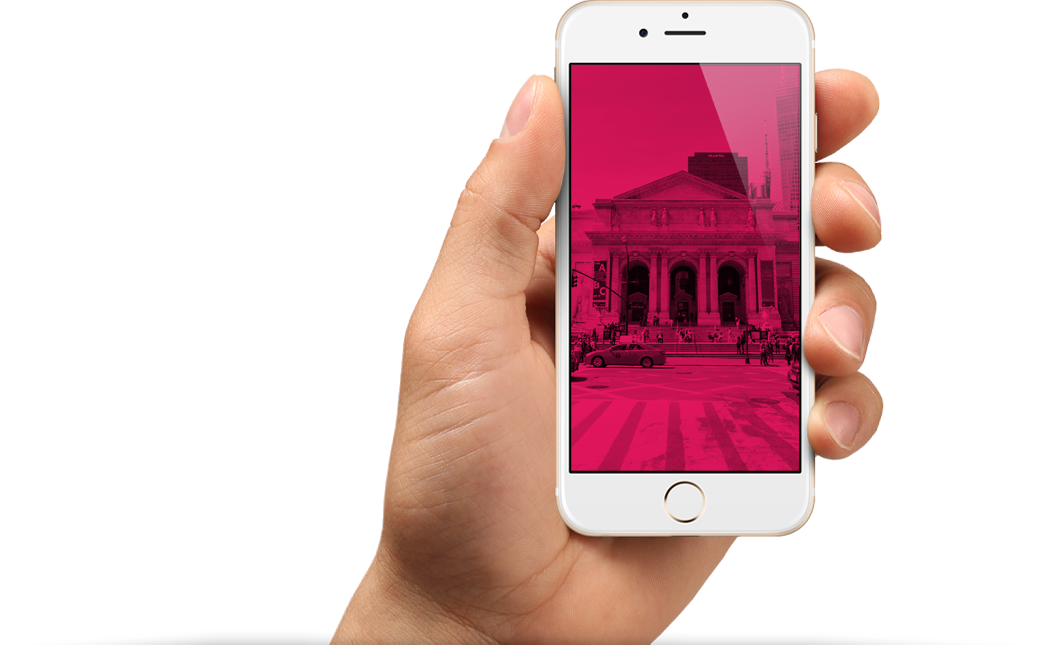
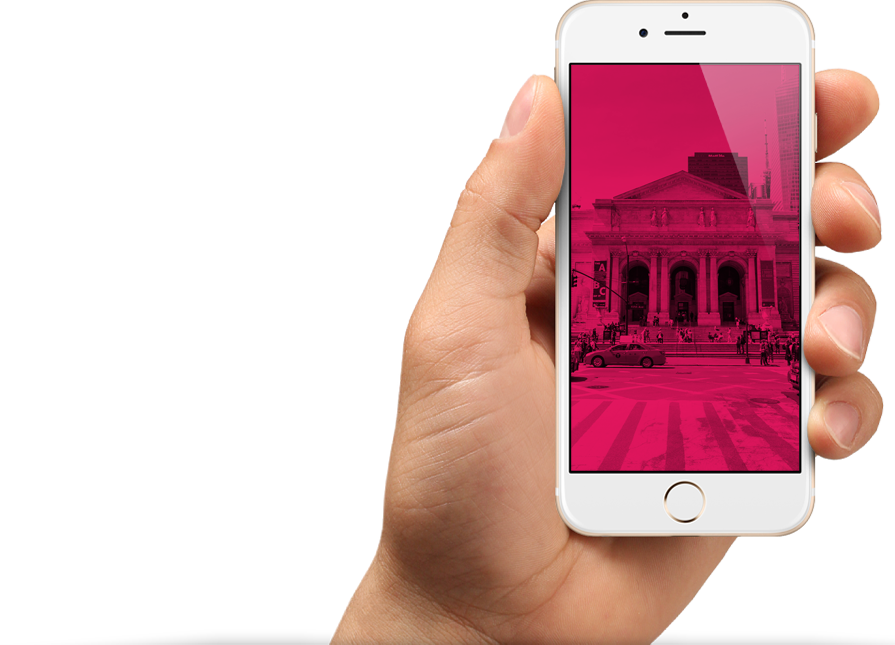
Исправления по базовым критериям + использование спрайта

diff --git a/source/photo.html b/source/photo.html
@@ -7,6 +7,9 @@
     <link href="css/style.min.css" rel="stylesheet">
   </head>
   <body>
+    <div style="display: none">
+      <svg xmlns="http://www.w3.org/2000/svg" xmlns:xlink="http://www.w3.org/1999/xlink"><symbol id="icon-editor-contrast" viewBox="-35.422 -7.96 31.92 31.92"><path d="M-19.462-3.96c6.595 0 11.96 5.365 11.96 11.96s-5.365 11.96-11.96 11.96-11.96-5.365-11.96-11.96 5.365-11.96 11.96-11.96m0-4c-8.814 0-15.96 7.145-15.96 15.96 0 8.813 7.146 15.96 15.96 15.96S-3.502 16.813-3.502 8c0-8.815-7.146-15.96-15.96-15.96z"/><path d="M-19.462 16.331a8.519 8.519 0 008.52-8.52 8.518 8.518 0 00-8.52-8.519"/></symbol><symbol id="icon-editor-crop"><path fill="none" d="M0 0h48v48H0V0z"/><path d="M34 30h4V14c0-2.21-1.79-4-4-4H18v4h16v16zm-20 4V2h-4v8H2v4h8v20c0 2.21 1.79 4 4 4h20v8h4v-8h8v-4H14z"/></symbol><symbol id="icon-editor-diagram-fill" viewBox="22.5 69.048 253 253"><path fill="#231F20" d="M149 69.048c-69.864 0-126.5 56.636-126.5 126.5s56.636 126.5 126.5 126.5 126.5-56.636 126.5-126.5c0-69.863-56.636-126.5-126.5-126.5zm0 237.216c-60.844 0-110.167-49.323-110.167-110.167S88.156 85.93 149 85.93c60.843 0 110.167 49.323 110.167 110.167S209.843 306.264 149 306.264z"/></symbol><symbol id="icon-editor-fill"><path fill="none" d="M0 0h48v48H0V0z"/><path d="M33.12 17.88L15.24 0l-2.83 2.83 4.76 4.76L6.88 17.88a3 3 0 000 4.24l11 11c.58.59 1.35.88 2.12.88s1.54-.29 2.12-.88l11-11a3 3 0 000-4.24zM10.41 20L20 10.42 29.59 20H10.41zM38 23s-4 4.33-4 7c0 2.21 1.79 4 4 4s4-1.79 4-4c0-2.67-4-7-4-7zM0 40h48v3H0z"/></symbol><symbol id="icon-facebook"><path d="M6.275 3.357h2.398V0H5.795C2.656.181 1.54 2.387 1.948 6.115H0v3.517h1.958v9.312h3.837V9.632h2.857V6.115H5.786c-.021-1.045-.036-2.406.489-2.758z"/></symbol><symbol id="icon-heart" viewBox="521.939 473.064 12.545 11.99"><path fill="#d22856" d="M528.174 485.055a.737.737 0 01-.552-.249c-3.798-4.324-4.644-5.298-4.858-5.572h-.004a3.866 3.866 0 01-.821-2.373 3.803 3.803 0 013.799-3.799c.934 0 1.804.32 2.484.898a3.847 3.847 0 012.463-.898 3.803 3.803 0 013.799 3.799c0 .909-.318 1.754-.896 2.381l-4.86 5.561a.735.735 0 01-.554.252zm-4.245-6.706c.208.255 2.471 2.839 4.243 4.858l4.323-4.944c.34-.369.52-.86.52-1.399a2.333 2.333 0 00-2.33-2.331c-.729 0-1.421.344-1.9.943a.76.76 0 01-.585.275.727.727 0 01-.575-.294 2.333 2.333 0 00-1.887-.925 2.333 2.333 0 00-2.33 2.331c0 .678.275 1.171.507 1.467l.014.019z"/></symbol><symbol id="icon-mail"><path fill="#d22856" d="M14.914 1.814C16.111.816 15.816 0 14.257 0H3.731c-1.56 0-1.854.816-.657 1.814l3.742 3.118c1.197.998 3.158.998 4.355 0l3.743-3.118z"/><path fill="#d22856" d="M11.913 7.044A209.809 209.809 0 019.695 8.88l-.02.013a1.048 1.048 0 01-.235.136c-.033.015-.066.034-.1.048a1.18 1.18 0 01-.335.059l-.01.001h-.002l-.01-.001a1.216 1.216 0 01-.335-.059c-.034-.014-.068-.033-.1-.048a1.07 1.07 0 01-.235-.136l-.02-.013c-.022-.012-1.02-.838-2.218-1.836L2.178 3.796C.979 2.798 0 3.257 0 4.816v6.315a2.842 2.842 0 002.835 2.835h12.318a2.842 2.842 0 002.835-2.835V4.816c0-1.559-.979-2.018-2.178-1.02l-3.897 3.248z"/></symbol><symbol id="icon-map-marker"><circle fill="#FFF" cx="17.991" cy="17.991" r="17.991"/><circle fill="#D22856" cx="17.991" cy="17.991" r="7.866"/></symbol><symbol id="icon-menu-burger"><path fill="#FFF" d="M1.137 0C.51 0 0 .428 0 1.01v1.981c0 .558.494 1.01 1.139 1.01H48.81c.628 0 1.138-.428 1.138-1.01V1.01c0-.558-.494-1.01-1.138-1.01H1.137zm0 10.003c-.627 0-1.137.428-1.137 1.01v1.98c0 .557.494 1.01 1.139 1.01H48.81c.628 0 1.138-.428 1.138-1.01v-1.98c0-.558-.494-1.01-1.138-1.01H1.137zm0 10.002C.51 20.005 0 20.434 0 21.016v1.981c0 .557.494 1.01 1.139 1.01H48.81c.628 0 1.138-.428 1.138-1.01v-1.981c0-.558-.494-1.011-1.138-1.011H1.137z"/><path fill="#FFF" d="M1.137 0C.51 0 0 .428 0 1.01v1.981c0 .558.494 1.01 1.139 1.01H48.81c.628 0 1.138-.428 1.138-1.01V1.01c0-.558-.494-1.01-1.138-1.01H1.137zm0 10.003c-.627 0-1.137.428-1.137 1.01v1.98c0 .557.494 1.01 1.139 1.01H48.81c.628 0 1.138-.428 1.138-1.01v-1.98c0-.558-.494-1.01-1.138-1.01H1.137zm0 10.002C.51 20.005 0 20.434 0 21.016v1.981c0 .557.494 1.01 1.139 1.01H48.81c.628 0 1.138-.428 1.138-1.01v-1.981c0-.558-.494-1.011-1.138-1.011H1.137z"/></symbol><symbol id="icon-menu-cross"><path fill="#FFF" d="M15.087 11.933l8.56-8.559a.75.75 0 000-1.061L21.554.22a.747.747 0 00-1.06 0l-8.561 8.56L3.373.22a.771.771 0 00-1.061 0L.22 2.313a.75.75 0 000 1.061l8.56 8.559-8.56 8.559a.751.751 0 000 1.062l2.093 2.094a.744.744 0 001.06 0l8.561-8.56 8.56 8.56a.746.746 0 001.06 0l2.093-2.094a.751.751 0 000-1.062l-8.56-8.559z"/></symbol><symbol id="icon-no"><path d="M15.497 13.376L26.312 2.562A1.5 1.5 0 1024.191.441L13.376 11.255 2.562.439A1.5 1.5 0 10.441 2.56l10.814 10.815L.439 24.19a1.5 1.5 0 102.122 2.121l10.815-10.814L24.19 26.312c.293.293.677.439 1.061.439s.768-.146 1.061-.439a1.5 1.5 0 000-2.121L15.497 13.376z" fill="#f25b26"/></symbol><symbol id="icon-phone"><path fill="#d22856" d="M9.848 0C6.34 0 2.823.628 1.546 1.878.488 2.918.134 4.752.016 5.913c0 0-.016.115-.016.165 0 .454.369.82.819.82.054 0 2.028-.161 3.218-.259a.503.503 0 00.086-.017.821.821 0 00.801-.819l.003-1.617c0-.5.407-.902.907-.902h8.027c.499 0 .907.402.907.902l.003 1.617a.82.82 0 00.802.82.474.474 0 00.085.017c1.19.098 3.164.259 3.217.259a.822.822 0 00.822-.82c0-.05-.018-.165-.018-.165-.118-1.161-.472-2.995-1.53-4.035C16.873.628 13.356 0 9.848 0zm0 10.67a1.64 1.64 0 100 3.281 1.64 1.64 0 100-3.281zM8.616 6.975V5.951a1.024 1.024 0 10-2.049 0v1.024L1.03 12.888a2.054 2.054 0 00-.619 1.47v1.646c0 .907.734 1.643 1.641 1.643h.411v1.023a1.026 1.026 0 102.05 0v-1.023h10.669v1.023a1.025 1.025 0 102.051 0v-1.023h.411c.905 0 1.64-.735 1.64-1.643v-1.646c0-.576-.236-1.094-.618-1.47L13.13 6.975V5.951a1.025 1.025 0 10-2.051 0v1.024H8.616zm1.232 2.053c1.814 0 3.282 1.468 3.282 3.282s-1.468 3.282-3.282 3.282c-1.813 0-3.281-1.468-3.281-3.282s1.467-3.282 3.281-3.282z"/></symbol><symbol id="icon-quotes"><path fill="#efefef" d="M34.967 7.063L30.713 0C28.272 1.495 0 12.207 0 39.617c0 7.231.336 24.172 18.9 24.172 11.187 0 13.94-10.279 13.94-13.584 0-21.977-21.382-14.177-21.382-14.177 0-18.071 19.805-26.844 23.509-28.965zm43.705 0L74.418 0c-2.44 1.495-30.713 12.207-30.713 39.617 0 7.231.337 24.172 18.9 24.172 11.187 0 13.939-10.279 13.939-13.584 0-21.977-21.381-14.177-21.381-14.177.002-18.071 19.806-26.844 23.509-28.965z"/></symbol><symbol id="icon-review-arrow-left"><path d="M2.045 20.859L21.458 1.446A.847.847 0 0020.261.248L.248 20.261a.846.846 0 000 1.197l20.013 20.013a.843.843 0 001.198 0 .847.847 0 000-1.198L2.045 20.859z"/></symbol><symbol id="icon-review-arrow-right"><path d="M19.661 20.859L.248 1.446A.847.847 0 011.445.248L21.458 20.26c.33.33.33.867 0 1.197L1.445 41.471a.843.843 0 01-1.198 0 .847.847 0 010-1.198l19.414-19.414z"/></symbol><symbol id="icon-timer"><path fill="#dedede" d="M264.568 102.055l5.355-5.355c7.717-7.717 9.124-18.938 3.126-24.935-5.997-5.997-17.217-4.59-24.934 3.127l-5.386 5.385C221.768 63.292 196.11 51.875 168 48.297v-9.583h7.658c10.914 0 19.843-8.711 19.843-19.357S186.573 0 175.659 0h-53.317C111.429 0 102.5 8.711 102.5 19.357s8.929 19.357 19.842 19.357H130v9.583C56.681 57.629 0 120.244 0 196.097c0 82.291 66.709 149 149 149 82.29 0 149-66.709 149-149 0-35.663-12.535-68.394-33.432-94.042zM149 306.264c-60.844 0-110.167-49.323-110.167-110.167S88.156 85.93 149 85.93c60.843 0 110.167 49.323 110.167 110.167S209.843 306.264 149 306.264z"/></symbol><symbol id="icon-twitter"><path fill-rule="evenodd" clip-rule="evenodd" d="M11.283.153c1.736-.485 3.074.263 3.685 1.151.694-.226 1.372-.47 2.072-.691-.004.841-.538 1.478-.883 1.727.704.166 1.343-.48 1.343-.48-.175.976-1.035 1.746-1.611 1.977-.239 6.592-3.272 10.956-10.382 10.823h-.46c-.422 0-4.29-.45-5.047-1.843 2.341.192 4.011-.412 4.835-1.15-.989-.293-2.761-.464-3.07-2.881.362.105.583.223 1.228.117C1.757 8.067.385 7.366.461 5.218c.294.32 1.1.523 1.381.461C1.117 5.444-.188 2.398.921.843 2.794 2.654 4.769 4.364 8.29 4.528 8.506 2.288 9.461.787 11.283.153z"/></symbol><symbol id="icon-yes" viewBox="-82.357 4.875 21.698 16.09"><path d="M-60.953 5.167a.999.999 0 00-1.414 0L-75.75 18.551l-4.9-4.9a.999.999 0 10-1.414 1.414l5.607 5.607a.997.997 0 001.414 0l14.09-14c.391-.481.391-1.114 0-1.505z" fill="#3dc644"/></symbol><symbol id="icon-youtube"><path d="M1.775 13.78C.799 14.257 0 13.758 0 12.671V1.29C0 .202.799-.295 1.775.181l12.133 5.932c.975.478.975 1.258 0 1.736L1.775 13.78z"/></symbol></svg>
+    </div>
     <header class="page-header">
       <div class="page-header__wrapper">
         <div class="page-header__top container">
@@ -227,29 +230,21 @@
               <p class="posting-form__indicator">
                 <label class="posting-form__label posting-form__label--sharp posting-form__label--active" for="sharp">
                   <span class="visually-hidden">Резкость</span>
-                  <svg class="posting-form__label-svg posting-form__label-svg--active" x="0px" y="0px" width="48px" height="48px" viewBox="0 0 48 48" enable-background="new 0 0 48 48" xml:space="preserve">
-                    <path d="M34,30h4V14c0-2.21-1.79-4-4-4H18v4h16V30z M14,34V2h-4v8H2v4h8v20c0,2.21,1.79,4,4,4h20v8h4v-8h8v-4H14z"/>
-                  </svg>
+                  <svg class="posting-form__label-svg posting-form__label-svg--active" width="48px" height="48px" viewBox="0 0 48 48"><use xlink:href="#icon-editor-crop"></use></svg>
                 </label>
                 <input class="posting-form__range-input posting-form__range-input--active" type="range" min="0" max="100" name="sharp" id="sharp">
               </p>
               <p class="posting-form__indicator">
                 <label class="posting-form__label posting-form__label--saturation" for="saturation">
                   <span class="visually-hidden">Насыщенность</span>
-                  <svg class="posting-form__label-svg" x="0px" y="0px" width="48px" height="48px" viewBox="0 0 48 48" enable-background="new 0 0 48 48" xml:space="preserve">
-                    <path d="M33.12,17.88L15.24,0l-2.83,2.83l4.76,4.76L6.88,17.88c-1.17,1.17-1.17,3.07,0,4.24l11,11C18.46,33.71,19.23,34,20,34 s1.54-0.29,2.12-0.88l11-11C34.29,20.95,34.29,19.05,33.12,17.88z M10.41,20L20,10.42L29.59,20H10.41z M38,23c0,0-4,4.33-4,7 c0,2.21,1.79,4,4,4s4-1.79,4-4C42,27.33,38,23,38,23z"/>
-                    <rect y="40" width="48" height="3"/>
-                  </svg>
+                  <svg class="posting-form__label-svg" width="48px" height="48px" viewBox="0 0 48 48"><use xlink:href="#icon-editor-fill"></use></svg>
                 </label>
                 <input class="posting-form__range-input" type="range" min="0" max="100" name="saturation" id="saturation">
               </p>
               <p class="posting-form__indicator">
                 <label class="posting-form__label posting-form__label--contrast" for="contrast">
                   <span class="visually-hidden">Контраст</span>
-                  <svg class="posting-form__label-svg" x="0px" y="0px" width="31.92px" height="31.92px" viewBox="-35.422 -7.96 31.92 31.92" enable-background="new -35.422 -7.96 31.92 31.92" xml:space="preserve">
-                    <path fill="#231F20" d="M-19.462-3.96c6.595,0,11.96,5.365,11.96,11.96s-5.365,11.96-11.96,11.96S-31.422,14.595-31.422,8 S-26.057-3.96-19.462-3.96 M-19.462-7.96c-8.814,0-15.96,7.145-15.96,15.96c0,8.813,7.146,15.96,15.96,15.96S-3.502,16.813-3.502,8 C-3.502-0.815-10.648-7.96-19.462-7.96L-19.462-7.96z"/>
-                    <path d="M-19.462,16.331c4.706,0,8.52-3.813,8.52-8.52c0-4.705-3.813-8.519-8.52-8.519"/>
-                  </svg>
+                  <svg class="posting-form__label-svg" width="32" height="32"><use xlink:href="#icon-editor-contrast"></use></svg>
                 </label>
                 <input class="posting-form__range-input" type="range" min="0" max="100" name="contrast" id="contrast">
               </p>
@@ -262,7 +257,7 @@
         </form>
       </section>
     </main>
-    <footer class="page-footer">
+    <footer class="page-footer page-footer--mobile-hidden">
       <div class="page-footer__wrapper container">
         <a href="index.html" class="page-footer__logo">
           <svg class="page-footer__logo-svg" version="1.1" xmlns="http://www.w3.org/2000/svg" xmlns:xlink="http://www.w3.org/1999/xlink" x="0px" y="0px" width="146.3px" height="40.375px" viewBox="0 0 146.3 40.375" enable-background="new 0 0 146.3 40.375" xml:space="preserve">
@@ -303,36 +298,26 @@
           <li class="social-list__item">
             <a class="social-list__link social-list__link--twitter" href="#">
               <span class="visually-hidden">Мы в Твиттере</span>
-              <svg version="1.0" xmlns="http://www.w3.org/2000/svg" xmlns:xlink="http://www.w3.org/1999/xlink" x="0px" y="0px" width="17.5px" height="14.663px" viewBox="0 0 17.5 14.663" enable-background="new 0 0 17.5 14.663" xml:space="preserve">
-                <g id="W6EeEF_1_">
-                  <g>
-                    <path fill-rule="evenodd" clip-rule="evenodd" d="M11.283,0.153c1.736-0.485,3.074,0.263,3.685,1.151 c0.694-0.226,1.372-0.47,2.072-0.691c-0.004,0.841-0.538,1.478-0.883,1.727C16.861,2.506,17.5,1.86,17.5,1.86 c-0.175,0.976-1.035,1.746-1.611,1.977C15.65,10.429,12.617,14.793,5.507,14.66c-0.538,0,0.077,0-0.46,0 c-0.422,0-4.29-0.45-5.047-1.843c2.341,0.192,4.011-0.412,4.835-1.15c-0.989-0.293-2.761-0.464-3.07-2.881 c0.362,0.105,0.583,0.223,1.228,0.117C1.757,8.067,0.385,7.366,0.461,5.218c0.294,0.32,1.1,0.523,1.381,0.461 c-0.725-0.235-2.03-3.281-0.921-4.836C2.794,2.654,4.769,4.364,8.29,4.528C8.506,2.288,9.461,0.787,11.283,0.153z"/>
-                  </g>
-                </g>
-              </svg>
+              <svg width="18" height="14"><use xlink:href="#icon-twitter"></use></svg>
             </a>
           </li>
           <li class="social-list__item">
             <a class="social-list__link social-list__link--facebook" href="#">
               <span class="visually-hidden">Мы в Фейсбуке</span>
-              <svg version="1.0" xmlns="http://www.w3.org/2000/svg" xmlns:xlink="http://www.w3.org/1999/xlink" x="0px" y="0px" width="8.673px" height="18.944px" viewBox="0 0 8.673 18.944" enable-background="new 0 0 8.673 18.944" xml:space="preserve">
-                <path d="M6.275,3.357c0.799,0,1.599,0,2.398,0c0-1.119,0-2.238,0-3.357c-0.959,0-1.92,0-2.878,0C2.656,0.181,1.54,2.387,1.948,6.115 H0v3.517h1.958c0,3.104,0,6.208,0,9.312c1.279,0,2.558,0,3.837,0c0-3.104,0-6.208,0-9.312h2.857V6.115H5.786 C5.765,5.07,5.75,3.709,6.275,3.357z"/>
-              </svg>
+              <svg width="9" height="18"><use xlink:href="#icon-facebook"></use></svg>
             </a>
           </li>
           <li class="social-list__item">
             <a class="social-list__link social-list__link--youtube" href="#">
               <span class="visually-hidden">Мы на Ютубе</span>
-              <svg version="1.0" xmlns="http://www.w3.org/2000/svg" xmlns:xlink="http://www.w3.org/1999/xlink" x="0px" y="0px" width="14.64px" height="13.96px" viewBox="0 0 14.64 13.96" enable-background="new 0 0 14.64 13.96" xml:space="preserve">
-                <path d="M1.775,13.78C0.799,14.257,0,13.758,0,12.671V1.29c0-1.088,0.799-1.585,1.775-1.109l12.133,5.932 c0.975,0.478,0.975,1.258,0,1.736L1.775,13.78z"/>
-              </svg>
+              <svg width="15" height="13"><use xlink:href="#icon-youtube"></use></svg>
             </a>
           </li>
         </ul>
         <p class="page-footer__copyright">
           Разработано
           <a class="page-footer__copyright-link" href="https://htmlacademy.ru/intensive/adaptive">
-            <span class="visually-hidden"> HTML Academy</span>
+            <span class="visually-hidden">HTML Academy</span>
             <svg class="page-footer__copyright-link-svg" xmlns="http://www.w3.org/2000/svg" viewBox="0 0 60 60" width="27" height="34">
               <path fill="#d22856" d="M30.2 5h-.2l-19.7 2.1v36.2l19.7 11.7 19.7-11.7v-36.2l-19.5-2.1zm17 36.8l-17.2 10.2-17.2-10.2v-14.8l17.1 10.2v1.8l-11.7-7v1.8l11.8 7.1v1.9l-11.8-7v1.8l11.8 7 11.9-7.1v-7.6l5.3-3.2v15.1zm-.1-17l-4.7 2.8-2.2 1.3-10.3-6.1v1.8l8.8 5.3h-.1l-.2.1-1.3.7-7.3-4.3v1.8l5.8 3.4-1.4.9-4.3-2.6v1.8l2.9 1.7-2.9 1.7-17-10.1 17-10.2 17.2 10zm.1-1.8l-17.3-10.2-17.1 10.2v-13.6l17.2-1.8 17.2 1.8v13.6z"/>
             </svg>

diff --git a/source/index.html b/source/index.html
@@ -7,6 +7,9 @@
     <link href="css/style.min.css" rel="stylesheet">
   </head>
   <body>
+    <div style="display: none">
+      <svg xmlns="http://www.w3.org/2000/svg" xmlns:xlink="http://www.w3.org/1999/xlink"><symbol id="icon-editor-contrast" viewBox="-35.422 -7.96 31.92 31.92"><path d="M-19.462-3.96c6.595 0 11.96 5.365 11.96 11.96s-5.365 11.96-11.96 11.96-11.96-5.365-11.96-11.96 5.365-11.96 11.96-11.96m0-4c-8.814 0-15.96 7.145-15.96 15.96 0 8.813 7.146 15.96 15.96 15.96S-3.502 16.813-3.502 8c0-8.815-7.146-15.96-15.96-15.96z"/><path d="M-19.462 16.331a8.519 8.519 0 008.52-8.52 8.518 8.518 0 00-8.52-8.519"/></symbol><symbol id="icon-editor-crop"><path fill="none" d="M0 0h48v48H0V0z"/><path d="M34 30h4V14c0-2.21-1.79-4-4-4H18v4h16v16zm-20 4V2h-4v8H2v4h8v20c0 2.21 1.79 4 4 4h20v8h4v-8h8v-4H14z"/></symbol><symbol id="icon-editor-diagram-fill" viewBox="22.5 69.048 253 253"><path fill="#231F20" d="M149 69.048c-69.864 0-126.5 56.636-126.5 126.5s56.636 126.5 126.5 126.5 126.5-56.636 126.5-126.5c0-69.863-56.636-126.5-126.5-126.5zm0 237.216c-60.844 0-110.167-49.323-110.167-110.167S88.156 85.93 149 85.93c60.843 0 110.167 49.323 110.167 110.167S209.843 306.264 149 306.264z"/></symbol><symbol id="icon-editor-fill"><path fill="none" d="M0 0h48v48H0V0z"/><path d="M33.12 17.88L15.24 0l-2.83 2.83 4.76 4.76L6.88 17.88a3 3 0 000 4.24l11 11c.58.59 1.35.88 2.12.88s1.54-.29 2.12-.88l11-11a3 3 0 000-4.24zM10.41 20L20 10.42 29.59 20H10.41zM38 23s-4 4.33-4 7c0 2.21 1.79 4 4 4s4-1.79 4-4c0-2.67-4-7-4-7zM0 40h48v3H0z"/></symbol><symbol id="icon-facebook"><path d="M6.275 3.357h2.398V0H5.795C2.656.181 1.54 2.387 1.948 6.115H0v3.517h1.958v9.312h3.837V9.632h2.857V6.115H5.786c-.021-1.045-.036-2.406.489-2.758z"/></symbol><symbol id="icon-heart" viewBox="521.939 473.064 12.545 11.99"><path fill="#d22856" d="M528.174 485.055a.737.737 0 01-.552-.249c-3.798-4.324-4.644-5.298-4.858-5.572h-.004a3.866 3.866 0 01-.821-2.373 3.803 3.803 0 013.799-3.799c.934 0 1.804.32 2.484.898a3.847 3.847 0 012.463-.898 3.803 3.803 0 013.799 3.799c0 .909-.318 1.754-.896 2.381l-4.86 5.561a.735.735 0 01-.554.252zm-4.245-6.706c.208.255 2.471 2.839 4.243 4.858l4.323-4.944c.34-.369.52-.86.52-1.399a2.333 2.333 0 00-2.33-2.331c-.729 0-1.421.344-1.9.943a.76.76 0 01-.585.275.727.727 0 01-.575-.294 2.333 2.333 0 00-1.887-.925 2.333 2.333 0 00-2.33 2.331c0 .678.275 1.171.507 1.467l.014.019z"/></symbol><symbol id="icon-mail"><path fill="#d22856" d="M14.914 1.814C16.111.816 15.816 0 14.257 0H3.731c-1.56 0-1.854.816-.657 1.814l3.742 3.118c1.197.998 3.158.998 4.355 0l3.743-3.118z"/><path fill="#d22856" d="M11.913 7.044A209.809 209.809 0 019.695 8.88l-.02.013a1.048 1.048 0 01-.235.136c-.033.015-.066.034-.1.048a1.18 1.18 0 01-.335.059l-.01.001h-.002l-.01-.001a1.216 1.216 0 01-.335-.059c-.034-.014-.068-.033-.1-.048a1.07 1.07 0 01-.235-.136l-.02-.013c-.022-.012-1.02-.838-2.218-1.836L2.178 3.796C.979 2.798 0 3.257 0 4.816v6.315a2.842 2.842 0 002.835 2.835h12.318a2.842 2.842 0 002.835-2.835V4.816c0-1.559-.979-2.018-2.178-1.02l-3.897 3.248z"/></symbol><symbol id="icon-map-marker"><circle fill="#FFF" cx="17.991" cy="17.991" r="17.991"/><circle fill="#D22856" cx="17.991" cy="17.991" r="7.866"/></symbol><symbol id="icon-menu-burger"><path fill="#FFF" d="M1.137 0C.51 0 0 .428 0 1.01v1.981c0 .558.494 1.01 1.139 1.01H48.81c.628 0 1.138-.428 1.138-1.01V1.01c0-.558-.494-1.01-1.138-1.01H1.137zm0 10.003c-.627 0-1.137.428-1.137 1.01v1.98c0 .557.494 1.01 1.139 1.01H48.81c.628 0 1.138-.428 1.138-1.01v-1.98c0-.558-.494-1.01-1.138-1.01H1.137zm0 10.002C.51 20.005 0 20.434 0 21.016v1.981c0 .557.494 1.01 1.139 1.01H48.81c.628 0 1.138-.428 1.138-1.01v-1.981c0-.558-.494-1.011-1.138-1.011H1.137z"/><path fill="#FFF" d="M1.137 0C.51 0 0 .428 0 1.01v1.981c0 .558.494 1.01 1.139 1.01H48.81c.628 0 1.138-.428 1.138-1.01V1.01c0-.558-.494-1.01-1.138-1.01H1.137zm0 10.003c-.627 0-1.137.428-1.137 1.01v1.98c0 .557.494 1.01 1.139 1.01H48.81c.628 0 1.138-.428 1.138-1.01v-1.98c0-.558-.494-1.01-1.138-1.01H1.137zm0 10.002C.51 20.005 0 20.434 0 21.016v1.981c0 .557.494 1.01 1.139 1.01H48.81c.628 0 1.138-.428 1.138-1.01v-1.981c0-.558-.494-1.011-1.138-1.011H1.137z"/></symbol><symbol id="icon-menu-cross"><path fill="#FFF" d="M15.087 11.933l8.56-8.559a.75.75 0 000-1.061L21.554.22a.747.747 0 00-1.06 0l-8.561 8.56L3.373.22a.771.771 0 00-1.061 0L.22 2.313a.75.75 0 000 1.061l8.56 8.559-8.56 8.559a.751.751 0 000 1.062l2.093 2.094a.744.744 0 001.06 0l8.561-8.56 8.56 8.56a.746.746 0 001.06 0l2.093-2.094a.751.751 0 000-1.062l-8.56-8.559z"/></symbol><symbol id="icon-no"><path d="M15.497 13.376L26.312 2.562A1.5 1.5 0 1024.191.441L13.376 11.255 2.562.439A1.5 1.5 0 10.441 2.56l10.814 10.815L.439 24.19a1.5 1.5 0 102.122 2.121l10.815-10.814L24.19 26.312c.293.293.677.439 1.061.439s.768-.146 1.061-.439a1.5 1.5 0 000-2.121L15.497 13.376z" fill="#f25b26"/></symbol><symbol id="icon-phone"><path fill="#d22856" d="M9.848 0C6.34 0 2.823.628 1.546 1.878.488 2.918.134 4.752.016 5.913c0 0-.016.115-.016.165 0 .454.369.82.819.82.054 0 2.028-.161 3.218-.259a.503.503 0 00.086-.017.821.821 0 00.801-.819l.003-1.617c0-.5.407-.902.907-.902h8.027c.499 0 .907.402.907.902l.003 1.617a.82.82 0 00.802.82.474.474 0 00.085.017c1.19.098 3.164.259 3.217.259a.822.822 0 00.822-.82c0-.05-.018-.165-.018-.165-.118-1.161-.472-2.995-1.53-4.035C16.873.628 13.356 0 9.848 0zm0 10.67a1.64 1.64 0 100 3.281 1.64 1.64 0 100-3.281zM8.616 6.975V5.951a1.024 1.024 0 10-2.049 0v1.024L1.03 12.888a2.054 2.054 0 00-.619 1.47v1.646c0 .907.734 1.643 1.641 1.643h.411v1.023a1.026 1.026 0 102.05 0v-1.023h10.669v1.023a1.025 1.025 0 102.051 0v-1.023h.411c.905 0 1.64-.735 1.64-1.643v-1.646c0-.576-.236-1.094-.618-1.47L13.13 6.975V5.951a1.025 1.025 0 10-2.051 0v1.024H8.616zm1.232 2.053c1.814 0 3.282 1.468 3.282 3.282s-1.468 3.282-3.282 3.282c-1.813 0-3.281-1.468-3.281-3.282s1.467-3.282 3.281-3.282z"/></symbol><symbol id="icon-quotes"><path fill="#efefef" d="M34.967 7.063L30.713 0C28.272 1.495 0 12.207 0 39.617c0 7.231.336 24.172 18.9 24.172 11.187 0 13.94-10.279 13.94-13.584 0-21.977-21.382-14.177-21.382-14.177 0-18.071 19.805-26.844 23.509-28.965zm43.705 0L74.418 0c-2.44 1.495-30.713 12.207-30.713 39.617 0 7.231.337 24.172 18.9 24.172 11.187 0 13.939-10.279 13.939-13.584 0-21.977-21.381-14.177-21.381-14.177.002-18.071 19.806-26.844 23.509-28.965z"/></symbol><symbol id="icon-review-arrow-left"><path d="M2.045 20.859L21.458 1.446A.847.847 0 0020.261.248L.248 20.261a.846.846 0 000 1.197l20.013 20.013a.843.843 0 001.198 0 .847.847 0 000-1.198L2.045 20.859z"/></symbol><symbol id="icon-review-arrow-right"><path d="M19.661 20.859L.248 1.446A.847.847 0 011.445.248L21.458 20.26c.33.33.33.867 0 1.197L1.445 41.471a.843.843 0 01-1.198 0 .847.847 0 010-1.198l19.414-19.414z"/></symbol><symbol id="icon-timer"><path fill="#dedede" d="M264.568 102.055l5.355-5.355c7.717-7.717 9.124-18.938 3.126-24.935-5.997-5.997-17.217-4.59-24.934 3.127l-5.386 5.385C221.768 63.292 196.11 51.875 168 48.297v-9.583h7.658c10.914 0 19.843-8.711 19.843-19.357S186.573 0 175.659 0h-53.317C111.429 0 102.5 8.711 102.5 19.357s8.929 19.357 19.842 19.357H130v9.583C56.681 57.629 0 120.244 0 196.097c0 82.291 66.709 149 149 149 82.29 0 149-66.709 149-149 0-35.663-12.535-68.394-33.432-94.042zM149 306.264c-60.844 0-110.167-49.323-110.167-110.167S88.156 85.93 149 85.93c60.843 0 110.167 49.323 110.167 110.167S209.843 306.264 149 306.264z"/></symbol><symbol id="icon-twitter"><path fill-rule="evenodd" clip-rule="evenodd" d="M11.283.153c1.736-.485 3.074.263 3.685 1.151.694-.226 1.372-.47 2.072-.691-.004.841-.538 1.478-.883 1.727.704.166 1.343-.48 1.343-.48-.175.976-1.035 1.746-1.611 1.977-.239 6.592-3.272 10.956-10.382 10.823h-.46c-.422 0-4.29-.45-5.047-1.843 2.341.192 4.011-.412 4.835-1.15-.989-.293-2.761-.464-3.07-2.881.362.105.583.223 1.228.117C1.757 8.067.385 7.366.461 5.218c.294.32 1.1.523 1.381.461C1.117 5.444-.188 2.398.921.843 2.794 2.654 4.769 4.364 8.29 4.528 8.506 2.288 9.461.787 11.283.153z"/></symbol><symbol id="icon-yes" viewBox="-82.357 4.875 21.698 16.09"><path d="M-60.953 5.167a.999.999 0 00-1.414 0L-75.75 18.551l-4.9-4.9a.999.999 0 10-1.414 1.414l5.607 5.607a.997.997 0 001.414 0l14.09-14c.391-.481.391-1.114 0-1.505z" fill="#3dc644"/></symbol><symbol id="icon-youtube"><path d="M1.775 13.78C.799 14.257 0 13.758 0 12.671V1.29C0 .202.799-.295 1.775.181l12.133 5.932c.975.478.975 1.258 0 1.736L1.775 13.78z"/></symbol></svg>
+    </div>
     <header class="page-header">
       <div class="page-header__wrapper">
         <div class="page-header__top container">
@@ -141,7 +144,7 @@
         <div class="reviews__list">
           <button class="reviews__arrow reviews__arrow--left" type="button">
             <span class="visually-hidden">Предыдущий отзыв</span>
-            <svg xmlns="http://www.w3.org/2000/svg" width="21.706" height="41.719"><path d="M2.045 20.859L21.458 1.446A.847.847 0 0020.261.248L.248 20.261a.846.846 0 000 1.197l20.013 20.013a.843.843 0 001.198 0 .847.847 0 000-1.198L2.045 20.859z"/></svg>
+            <svg width="22" height="41"><use xlink:href="#icon-review-arrow-left"></use></svg>
           </button>
           <blockquote class="reviews__item">
             <cite class="reviews__author">Николай Петров</cite>
@@ -150,7 +153,7 @@
           </blockquote>
           <button class="reviews__arrow reviews__arrow--right" type="button">
             <span class="visually-hidden">Предыдущий отзыв</span>
-            <svg xmlns="http://www.w3.org/2000/svg" width="21.706" height="41.719"><path d="M19.661 20.859L.248 1.446A.847.847 0 011.445.248L21.458 20.26c.33.33.33.867 0 1.197L1.445 41.471a.843.843 0 01-1.198 0 .847.847 0 010-1.198l19.414-19.414z"/></svg>
+            <svg width="22" height="41"><use xlink:href="#icon-review-arrow-right"></use></svg>
           </button>
           <p class="reviews__toggles slider-toggles">
             <button class="slider-toggles__item slider-toggles__item--active" type="button"><span class="visually-hidden">1</span></button>
@@ -329,29 +332,19 @@
           <li class="social-list__item">
             <a class="social-list__link social-list__link--twitter" href="#">
               <span class="visually-hidden">Мы в Твиттере</span>
-              <svg version="1.0" xmlns="http://www.w3.org/2000/svg" xmlns:xlink="http://www.w3.org/1999/xlink" x="0px" y="0px" width="17.5px" height="14.663px" viewBox="0 0 17.5 14.663" enable-background="new 0 0 17.5 14.663" xml:space="preserve">
-                <g id="W6EeEF_1_">
-                  <g>
-                    <path fill-rule="evenodd" clip-rule="evenodd" d="M11.283,0.153c1.736-0.485,3.074,0.263,3.685,1.151 c0.694-0.226,1.372-0.47,2.072-0.691c-0.004,0.841-0.538,1.478-0.883,1.727C16.861,2.506,17.5,1.86,17.5,1.86 c-0.175,0.976-1.035,1.746-1.611,1.977C15.65,10.429,12.617,14.793,5.507,14.66c-0.538,0,0.077,0-0.46,0 c-0.422,0-4.29-0.45-5.047-1.843c2.341,0.192,4.011-0.412,4.835-1.15c-0.989-0.293-2.761-0.464-3.07-2.881 c0.362,0.105,0.583,0.223,1.228,0.117C1.757,8.067,0.385,7.366,0.461,5.218c0.294,0.32,1.1,0.523,1.381,0.461 c-0.725-0.235-2.03-3.281-0.921-4.836C2.794,2.654,4.769,4.364,8.29,4.528C8.506,2.288,9.461,0.787,11.283,0.153z"/>
-                  </g>
-                </g>
-              </svg>
+              <svg width="18" height="14"><use xlink:href="#icon-twitter"></use></svg>
             </a>
           </li>
           <li class="social-list__item">
             <a class="social-list__link social-list__link--facebook" href="#">
               <span class="visually-hidden">Мы в Фейсбуке</span>
-              <svg version="1.0" xmlns="http://www.w3.org/2000/svg" xmlns:xlink="http://www.w3.org/1999/xlink" x="0px" y="0px" width="8.673px" height="18.944px" viewBox="0 0 8.673 18.944" enable-background="new 0 0 8.673 18.944" xml:space="preserve">
-                <path d="M6.275,3.357c0.799,0,1.599,0,2.398,0c0-1.119,0-2.238,0-3.357c-0.959,0-1.92,0-2.878,0C2.656,0.181,1.54,2.387,1.948,6.115 H0v3.517h1.958c0,3.104,0,6.208,0,9.312c1.279,0,2.558,0,3.837,0c0-3.104,0-6.208,0-9.312h2.857V6.115H5.786 C5.765,5.07,5.75,3.709,6.275,3.357z"/>
-              </svg>
+              <svg width="9" height="18"><use xlink:href="#icon-facebook"></use></svg>
             </a>
           </li>
           <li class="social-list__item">
             <a class="social-list__link social-list__link--youtube" href="#">
               <span class="visually-hidden">Мы на Ютубе</span>
-              <svg version="1.0" xmlns="http://www.w3.org/2000/svg" xmlns:xlink="http://www.w3.org/1999/xlink" x="0px" y="0px" width="14.64px" height="13.96px" viewBox="0 0 14.64 13.96" enable-background="new 0 0 14.64 13.96" xml:space="preserve">
-                <path d="M1.775,13.78C0.799,14.257,0,13.758,0,12.671V1.29c0-1.088,0.799-1.585,1.775-1.109l12.133,5.932 c0.975,0.478,0.975,1.258,0,1.736L1.775,13.78z"/>
-              </svg>
+              <svg width="15" height="13"><use xlink:href="#icon-youtube"></use></svg>
             </a>
           </li>
         </ul>

diff --git a/source/form.html b/source/form.html
@@ -7,8 +7,8 @@
     <link href="css/style.min.css" rel="stylesheet">
   </head>
   <body>
-    <div style="display:none">
-      <include src="build/img/sprite.svg"></include>
+    <div style="display: none">
+      <svg xmlns="http://www.w3.org/2000/svg" xmlns:xlink="http://www.w3.org/1999/xlink"><symbol id="icon-editor-contrast" viewBox="-35.422 -7.96 31.92 31.92"><path d="M-19.462-3.96c6.595 0 11.96 5.365 11.96 11.96s-5.365 11.96-11.96 11.96-11.96-5.365-11.96-11.96 5.365-11.96 11.96-11.96m0-4c-8.814 0-15.96 7.145-15.96 15.96 0 8.813 7.146 15.96 15.96 15.96S-3.502 16.813-3.502 8c0-8.815-7.146-15.96-15.96-15.96z"/><path d="M-19.462 16.331a8.519 8.519 0 008.52-8.52 8.518 8.518 0 00-8.52-8.519"/></symbol><symbol id="icon-editor-crop"><path fill="none" d="M0 0h48v48H0V0z"/><path d="M34 30h4V14c0-2.21-1.79-4-4-4H18v4h16v16zm-20 4V2h-4v8H2v4h8v20c0 2.21 1.79 4 4 4h20v8h4v-8h8v-4H14z"/></symbol><symbol id="icon-editor-diagram-fill" viewBox="22.5 69.048 253 253"><path fill="#231F20" d="M149 69.048c-69.864 0-126.5 56.636-126.5 126.5s56.636 126.5 126.5 126.5 126.5-56.636 126.5-126.5c0-69.863-56.636-126.5-126.5-126.5zm0 237.216c-60.844 0-110.167-49.323-110.167-110.167S88.156 85.93 149 85.93c60.843 0 110.167 49.323 110.167 110.167S209.843 306.264 149 306.264z"/></symbol><symbol id="icon-editor-fill"><path fill="none" d="M0 0h48v48H0V0z"/><path d="M33.12 17.88L15.24 0l-2.83 2.83 4.76 4.76L6.88 17.88a3 3 0 000 4.24l11 11c.58.59 1.35.88 2.12.88s1.54-.29 2.12-.88l11-11a3 3 0 000-4.24zM10.41 20L20 10.42 29.59 20H10.41zM38 23s-4 4.33-4 7c0 2.21 1.79 4 4 4s4-1.79 4-4c0-2.67-4-7-4-7zM0 40h48v3H0z"/></symbol><symbol id="icon-facebook"><path d="M6.275 3.357h2.398V0H5.795C2.656.181 1.54 2.387 1.948 6.115H0v3.517h1.958v9.312h3.837V9.632h2.857V6.115H5.786c-.021-1.045-.036-2.406.489-2.758z"/></symbol><symbol id="icon-heart" viewBox="521.939 473.064 12.545 11.99"><path fill="#d22856" d="M528.174 485.055a.737.737 0 01-.552-.249c-3.798-4.324-4.644-5.298-4.858-5.572h-.004a3.866 3.866 0 01-.821-2.373 3.803 3.803 0 013.799-3.799c.934 0 1.804.32 2.484.898a3.847 3.847 0 012.463-.898 3.803 3.803 0 013.799 3.799c0 .909-.318 1.754-.896 2.381l-4.86 5.561a.735.735 0 01-.554.252zm-4.245-6.706c.208.255 2.471 2.839 4.243 4.858l4.323-4.944c.34-.369.52-.86.52-1.399a2.333 2.333 0 00-2.33-2.331c-.729 0-1.421.344-1.9.943a.76.76 0 01-.585.275.727.727 0 01-.575-.294 2.333 2.333 0 00-1.887-.925 2.333 2.333 0 00-2.33 2.331c0 .678.275 1.171.507 1.467l.014.019z"/></symbol><symbol id="icon-mail"><path fill="#d22856" d="M14.914 1.814C16.111.816 15.816 0 14.257 0H3.731c-1.56 0-1.854.816-.657 1.814l3.742 3.118c1.197.998 3.158.998 4.355 0l3.743-3.118z"/><path fill="#d22856" d="M11.913 7.044A209.809 209.809 0 019.695 8.88l-.02.013a1.048 1.048 0 01-.235.136c-.033.015-.066.034-.1.048a1.18 1.18 0 01-.335.059l-.01.001h-.002l-.01-.001a1.216 1.216 0 01-.335-.059c-.034-.014-.068-.033-.1-.048a1.07 1.07 0 01-.235-.136l-.02-.013c-.022-.012-1.02-.838-2.218-1.836L2.178 3.796C.979 2.798 0 3.257 0 4.816v6.315a2.842 2.842 0 002.835 2.835h12.318a2.842 2.842 0 002.835-2.835V4.816c0-1.559-.979-2.018-2.178-1.02l-3.897 3.248z"/></symbol><symbol id="icon-map-marker"><circle fill="#FFF" cx="17.991" cy="17.991" r="17.991"/><circle fill="#D22856" cx="17.991" cy="17.991" r="7.866"/></symbol><symbol id="icon-menu-burger"><path fill="#FFF" d="M1.137 0C.51 0 0 .428 0 1.01v1.981c0 .558.494 1.01 1.139 1.01H48.81c.628 0 1.138-.428 1.138-1.01V1.01c0-.558-.494-1.01-1.138-1.01H1.137zm0 10.003c-.627 0-1.137.428-1.137 1.01v1.98c0 .557.494 1.01 1.139 1.01H48.81c.628 0 1.138-.428 1.138-1.01v-1.98c0-.558-.494-1.01-1.138-1.01H1.137zm0 10.002C.51 20.005 0 20.434 0 21.016v1.981c0 .557.494 1.01 1.139 1.01H48.81c.628 0 1.138-.428 1.138-1.01v-1.981c0-.558-.494-1.011-1.138-1.011H1.137z"/><path fill="#FFF" d="M1.137 0C.51 0 0 .428 0 1.01v1.981c0 .558.494 1.01 1.139 1.01H48.81c.628 0 1.138-.428 1.138-1.01V1.01c0-.558-.494-1.01-1.138-1.01H1.137zm0 10.003c-.627 0-1.137.428-1.137 1.01v1.98c0 .557.494 1.01 1.139 1.01H48.81c.628 0 1.138-.428 1.138-1.01v-1.98c0-.558-.494-1.01-1.138-1.01H1.137zm0 10.002C.51 20.005 0 20.434 0 21.016v1.981c0 .557.494 1.01 1.139 1.01H48.81c.628 0 1.138-.428 1.138-1.01v-1.981c0-.558-.494-1.011-1.138-1.011H1.137z"/></symbol><symbol id="icon-menu-cross"><path fill="#FFF" d="M15.087 11.933l8.56-8.559a.75.75 0 000-1.061L21.554.22a.747.747 0 00-1.06 0l-8.561 8.56L3.373.22a.771.771 0 00-1.061 0L.22 2.313a.75.75 0 000 1.061l8.56 8.559-8.56 8.559a.751.751 0 000 1.062l2.093 2.094a.744.744 0 001.06 0l8.561-8.56 8.56 8.56a.746.746 0 001.06 0l2.093-2.094a.751.751 0 000-1.062l-8.56-8.559z"/></symbol><symbol id="icon-no"><path d="M15.497 13.376L26.312 2.562A1.5 1.5 0 1024.191.441L13.376 11.255 2.562.439A1.5 1.5 0 10.441 2.56l10.814 10.815L.439 24.19a1.5 1.5 0 102.122 2.121l10.815-10.814L24.19 26.312c.293.293.677.439 1.061.439s.768-.146 1.061-.439a1.5 1.5 0 000-2.121L15.497 13.376z" fill="#f25b26"/></symbol><symbol id="icon-phone"><path fill="#d22856" d="M9.848 0C6.34 0 2.823.628 1.546 1.878.488 2.918.134 4.752.016 5.913c0 0-.016.115-.016.165 0 .454.369.82.819.82.054 0 2.028-.161 3.218-.259a.503.503 0 00.086-.017.821.821 0 00.801-.819l.003-1.617c0-.5.407-.902.907-.902h8.027c.499 0 .907.402.907.902l.003 1.617a.82.82 0 00.802.82.474.474 0 00.085.017c1.19.098 3.164.259 3.217.259a.822.822 0 00.822-.82c0-.05-.018-.165-.018-.165-.118-1.161-.472-2.995-1.53-4.035C16.873.628 13.356 0 9.848 0zm0 10.67a1.64 1.64 0 100 3.281 1.64 1.64 0 100-3.281zM8.616 6.975V5.951a1.024 1.024 0 10-2.049 0v1.024L1.03 12.888a2.054 2.054 0 00-.619 1.47v1.646c0 .907.734 1.643 1.641 1.643h.411v1.023a1.026 1.026 0 102.05 0v-1.023h10.669v1.023a1.025 1.025 0 102.051 0v-1.023h.411c.905 0 1.64-.735 1.64-1.643v-1.646c0-.576-.236-1.094-.618-1.47L13.13 6.975V5.951a1.025 1.025 0 10-2.051 0v1.024H8.616zm1.232 2.053c1.814 0 3.282 1.468 3.282 3.282s-1.468 3.282-3.282 3.282c-1.813 0-3.281-1.468-3.281-3.282s1.467-3.282 3.281-3.282z"/></symbol><symbol id="icon-quotes"><path fill="#efefef" d="M34.967 7.063L30.713 0C28.272 1.495 0 12.207 0 39.617c0 7.231.336 24.172 18.9 24.172 11.187 0 13.94-10.279 13.94-13.584 0-21.977-21.382-14.177-21.382-14.177 0-18.071 19.805-26.844 23.509-28.965zm43.705 0L74.418 0c-2.44 1.495-30.713 12.207-30.713 39.617 0 7.231.337 24.172 18.9 24.172 11.187 0 13.939-10.279 13.939-13.584 0-21.977-21.381-14.177-21.381-14.177.002-18.071 19.806-26.844 23.509-28.965z"/></symbol><symbol id="icon-review-arrow-left"><path d="M2.045 20.859L21.458 1.446A.847.847 0 0020.261.248L.248 20.261a.846.846 0 000 1.197l20.013 20.013a.843.843 0 001.198 0 .847.847 0 000-1.198L2.045 20.859z"/></symbol><symbol id="icon-review-arrow-right"><path d="M19.661 20.859L.248 1.446A.847.847 0 011.445.248L21.458 20.26c.33.33.33.867 0 1.197L1.445 41.471a.843.843 0 01-1.198 0 .847.847 0 010-1.198l19.414-19.414z"/></symbol><symbol id="icon-timer"><path fill="#dedede" d="M264.568 102.055l5.355-5.355c7.717-7.717 9.124-18.938 3.126-24.935-5.997-5.997-17.217-4.59-24.934 3.127l-5.386 5.385C221.768 63.292 196.11 51.875 168 48.297v-9.583h7.658c10.914 0 19.843-8.711 19.843-19.357S186.573 0 175.659 0h-53.317C111.429 0 102.5 8.711 102.5 19.357s8.929 19.357 19.842 19.357H130v9.583C56.681 57.629 0 120.244 0 196.097c0 82.291 66.709 149 149 149 82.29 0 149-66.709 149-149 0-35.663-12.535-68.394-33.432-94.042zM149 306.264c-60.844 0-110.167-49.323-110.167-110.167S88.156 85.93 149 85.93c60.843 0 110.167 49.323 110.167 110.167S209.843 306.264 149 306.264z"/></symbol><symbol id="icon-twitter"><path fill-rule="evenodd" clip-rule="evenodd" d="M11.283.153c1.736-.485 3.074.263 3.685 1.151.694-.226 1.372-.47 2.072-.691-.004.841-.538 1.478-.883 1.727.704.166 1.343-.48 1.343-.48-.175.976-1.035 1.746-1.611 1.977-.239 6.592-3.272 10.956-10.382 10.823h-.46c-.422 0-4.29-.45-5.047-1.843 2.341.192 4.011-.412 4.835-1.15-.989-.293-2.761-.464-3.07-2.881.362.105.583.223 1.228.117C1.757 8.067.385 7.366.461 5.218c.294.32 1.1.523 1.381.461C1.117 5.444-.188 2.398.921.843 2.794 2.654 4.769 4.364 8.29 4.528 8.506 2.288 9.461.787 11.283.153z"/></symbol><symbol id="icon-yes" viewBox="-82.357 4.875 21.698 16.09"><path d="M-60.953 5.167a.999.999 0 00-1.414 0L-75.75 18.551l-4.9-4.9a.999.999 0 10-1.414 1.414l5.607 5.607a.997.997 0 001.414 0l14.09-14c.391-.481.391-1.114 0-1.505z" fill="#3dc644"/></symbol><symbol id="icon-youtube"><path d="M1.775 13.78C.799 14.257 0 13.758 0 12.671V1.29C0 .202.799-.295 1.775.181l12.133 5.932c.975.478.975 1.258 0 1.736L1.775 13.78z"/></symbol></svg>
     </div>
     <header class="page-header">
       <div class="page-header__wrapper">
@@ -183,7 +183,7 @@
         </div>
       </div>
     </main>
-    <footer class="page-footer">
+    <footer class="page-footer page-footer--mobile-hidden">
       <div class="page-footer__wrapper container">
         <a href="index.html" class="page-footer__logo">
           <svg class="page-footer__logo-svg" version="1.1" xmlns="http://www.w3.org/2000/svg" xmlns:xlink="http://www.w3.org/1999/xlink" x="0px" y="0px" width="146.3px" height="40.375px" viewBox="0 0 146.3 40.375" enable-background="new 0 0 146.3 40.375" xml:space="preserve">
@@ -224,36 +224,26 @@
           <li class="social-list__item">
             <a class="social-list__link social-list__link--twitter" href="#">
               <span class="visually-hidden">Мы в Твиттере</span>
-              <svg version="1.0" xmlns="http://www.w3.org/2000/svg" xmlns:xlink="http://www.w3.org/1999/xlink" x="0px" y="0px" width="17.5px" height="14.663px" viewBox="0 0 17.5 14.663" enable-background="new 0 0 17.5 14.663" xml:space="preserve">
-                <g id="W6EeEF_1_">
-                  <g>
-                    <path fill-rule="evenodd" clip-rule="evenodd" d="M11.283,0.153c1.736-0.485,3.074,0.263,3.685,1.151 c0.694-0.226,1.372-0.47,2.072-0.691c-0.004,0.841-0.538,1.478-0.883,1.727C16.861,2.506,17.5,1.86,17.5,1.86 c-0.175,0.976-1.035,1.746-1.611,1.977C15.65,10.429,12.617,14.793,5.507,14.66c-0.538,0,0.077,0-0.46,0 c-0.422,0-4.29-0.45-5.047-1.843c2.341,0.192,4.011-0.412,4.835-1.15c-0.989-0.293-2.761-0.464-3.07-2.881 c0.362,0.105,0.583,0.223,1.228,0.117C1.757,8.067,0.385,7.366,0.461,5.218c0.294,0.32,1.1,0.523,1.381,0.461 c-0.725-0.235-2.03-3.281-0.921-4.836C2.794,2.654,4.769,4.364,8.29,4.528C8.506,2.288,9.461,0.787,11.283,0.153z"/>
-                  </g>
-                </g>
-              </svg>
+              <svg width="18" height="14"><use xlink:href="#icon-twitter"></use></svg>
             </a>
           </li>
           <li class="social-list__item">
             <a class="social-list__link social-list__link--facebook" href="#">
               <span class="visually-hidden">Мы в Фейсбуке</span>
-              <svg version="1.0" xmlns="http://www.w3.org/2000/svg" xmlns:xlink="http://www.w3.org/1999/xlink" x="0px" y="0px" width="8.673px" height="18.944px" viewBox="0 0 8.673 18.944" enable-background="new 0 0 8.673 18.944" xml:space="preserve">
-                <path d="M6.275,3.357c0.799,0,1.599,0,2.398,0c0-1.119,0-2.238,0-3.357c-0.959,0-1.92,0-2.878,0C2.656,0.181,1.54,2.387,1.948,6.115 H0v3.517h1.958c0,3.104,0,6.208,0,9.312c1.279,0,2.558,0,3.837,0c0-3.104,0-6.208,0-9.312h2.857V6.115H5.786 C5.765,5.07,5.75,3.709,6.275,3.357z"/>
-              </svg>
+              <svg width="9" height="18"><use xlink:href="#icon-facebook"></use></svg>
             </a>
           </li>
           <li class="social-list__item">
             <a class="social-list__link social-list__link--youtube" href="#">
               <span class="visually-hidden">Мы на Ютубе</span>
-              <svg version="1.0" xmlns="http://www.w3.org/2000/svg" xmlns:xlink="http://www.w3.org/1999/xlink" x="0px" y="0px" width="14.64px" height="13.96px" viewBox="0 0 14.64 13.96" enable-background="new 0 0 14.64 13.96" xml:space="preserve">
-                <path d="M1.775,13.78C0.799,14.257,0,13.758,0,12.671V1.29c0-1.088,0.799-1.585,1.775-1.109l12.133,5.932 c0.975,0.478,0.975,1.258,0,1.736L1.775,13.78z"/>
-              </svg>
+              <svg width="15" height="13"><use xlink:href="#icon-youtube"></use></svg>
             </a>
           </li>
         </ul>
         <p class="page-footer__copyright">
           Разработано
           <a class="page-footer__copyright-link" href="https://htmlacademy.ru/intensive/adaptive">
-            <span class="visually-hidden"> HTML Academy</span>
+            <span class="visually-hidden">HTML Academy</span>
             <svg class="page-footer__copyright-link-svg" xmlns="http://www.w3.org/2000/svg" viewBox="0 0 60 60" width="27" height="34">
               <path fill="#d22856" d="M30.2 5h-.2l-19.7 2.1v36.2l19.7 11.7 19.7-11.7v-36.2l-19.5-2.1zm17 36.8l-17.2 10.2-17.2-10.2v-14.8l17.1 10.2v1.8l-11.7-7v1.8l11.8 7.1v1.9l-11.8-7v1.8l11.8 7 11.9-7.1v-7.6l5.3-3.2v15.1zm-.1-17l-4.7 2.8-2.2 1.3-10.3-6.1v1.8l8.8 5.3h-.1l-.2.1-1.3.7-7.3-4.3v1.8l5.8 3.4-1.4.9-4.3-2.6v1.8l2.9 1.7-2.9 1.7-17-10.1 17-10.2 17.2 10zm.1-1.8l-17.3-10.2-17.1 10.2v-13.6l17.2-1.8 17.2 1.8v13.6z"/>
             </svg>

diff --git a/source/less/blocks/posting-form.less b/source/less/blocks/posting-form.less
@@ -22,24 +22,18 @@
   position: relative;
 }
 
-.posting-form__label-svg path,
-.posting-form__label-svg rect {
+.posting-form__label-svg {
   fill: #b5b9be;
 }
 
-.posting-form__label-svg:hover path,
-.posting-form__label-svg:hover rect,
-.posting-form__label-svg:focus path,
-.posting-form__label-svg:focus rect {
+.posting-form__label-svg:hover,
+.posting-form__label-svg:focus {
   fill: #8d949b;
 }
 
-.posting-form__label-svg--active path,
-.posting-form__label-svg--active rect,
-.posting-form__label-svg--active:hover path,
-.posting-form__label-svg--active:hover rect,
-.posting-form__label-svg--active:focus path,
-.posting-form__label-svg--active:focus rect {
+.posting-form__label-svg--active,
+.posting-form__label-svg--active:hover,
+.posting-form__label-svg--active:focus {
   fill: #d22856;
 }
 
@@ -119,10 +113,7 @@
   .posting-form__label-svg {
     width: 22px;
     height: 22px;
-  }
 
-  .posting-form__label-svg path,
-  .posting-form__label-svg rect {
     fill: #d22856;
   }
 

diff --git a/source/less/blocks/contacts.less b/source/less/blocks/contacts.less
@@ -75,7 +75,7 @@
   left: 0;
 
   width: 100%;
-  height: 123px;
+  height: 37px;
 
   background-image: url("../img/bg-triangle-white-footer.svg");
   background-repeat: no-repeat;
@@ -113,6 +113,7 @@
 
 .contacts__iframe iframe {
   border: none;
+  width: 100%;
 }
 
 @media (min-width: 660px) {
@@ -174,8 +175,11 @@
   }
 
   .contacts__iframe iframe {
-    width: 700px;
     height: 362px;
+  }
+
+  .contacts__map::before {
+    height: 80px;
   }
 }
 
@@ -213,7 +217,8 @@
   }
 
   .contacts__map img {
-    width: 1200px;
+    width: 100%;
+    max-width: 1200px;
     height: 976px;
 
     margin-top: -272px;
@@ -228,8 +233,10 @@
   }
 
   .contacts__iframe iframe {
-    width: 100%;
-    max-width: 1200px;
     height: 522px;
+  }
+
+  .contacts__map::before {
+    height: 123px;
   }
 }

diff --git a/source/less/blocks/social-list.less b/source/less/blocks/social-list.less
@@ -16,8 +16,8 @@
   box-sizing: border-box;
 
   display: flex;
-  align-items: center;
   justify-content: center;
+  align-items: center;
 
   border-radius: 50%;
   border: solid 3px rgba(40, 54, 69, 0.1);
@@ -32,7 +32,7 @@
   opacity: 0.3;
 }
 
-.social-list__link path {
+.social-list__link svg {
   fill: #d22856;
 }
 

diff --git a/source/less/blocks/intro.less b/source/less/blocks/intro.less
@@ -147,6 +147,7 @@
     width: 960px;
     margin: 0 auto;
 
+
     display: flex;
     flex-direction: column;
   }
@@ -154,9 +155,9 @@
   .intro__image {
     position: relative;
     top: -188px;
-    left: 16px;
+    left: -7px;
 
-    width: 1050px;
+    width: 895px;
     height: 645px;
   }
 

diff --git a/source/less/blocks/competition-form.less b/source/less/blocks/competition-form.less
@@ -1,3 +1,9 @@
+.competition-form {
+  max-width: 1200px;
+  margin-left: auto;
+  margin-right: auto;
+}
+
 .competition-form__text-label {
   padding-left: 23px;
 

diff --git a/source/less/blocks/reviews.less b/source/less/blocks/reviews.less
@@ -115,7 +115,6 @@
 
     background-color: transparent;
     border: none;
-    opacity: 0.3;
 
     cursor: pointer;
   }
